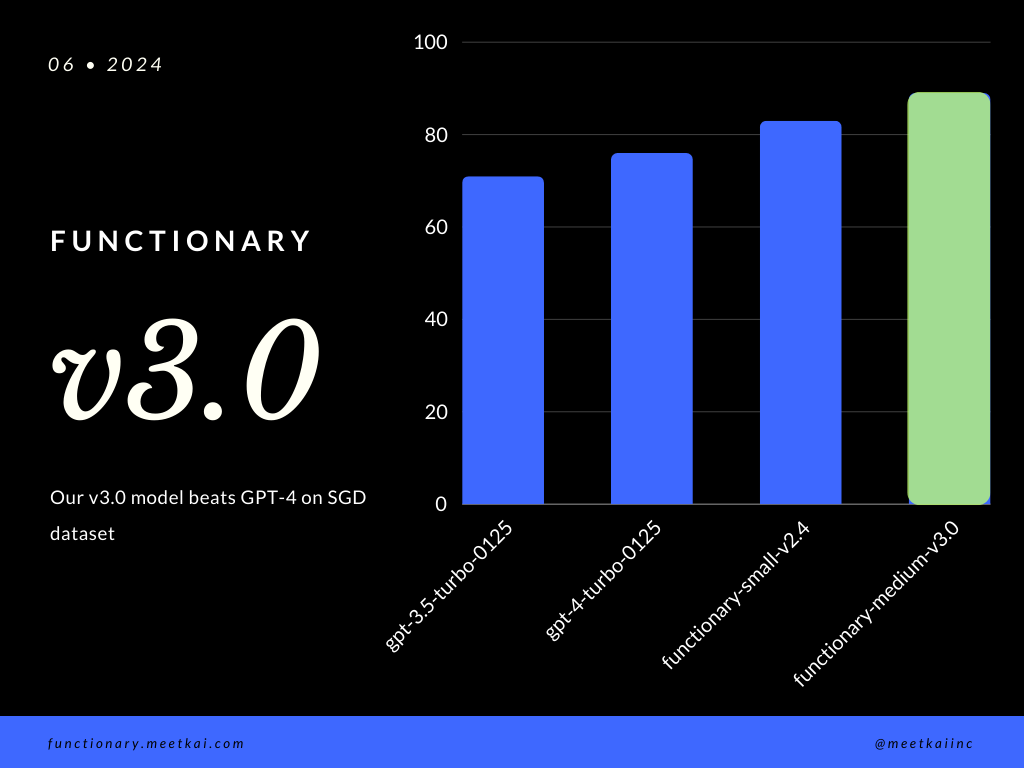
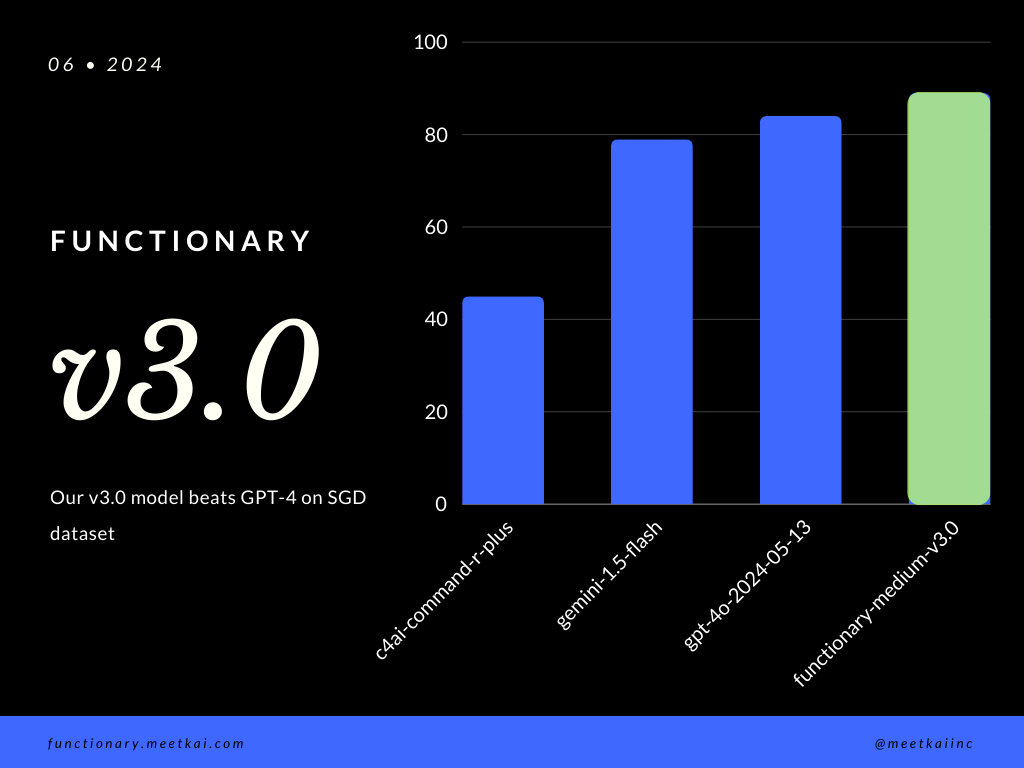
update image and result table

diff --git a/README.md b/README.md
@@ -599,10 +599,9 @@ Evaluation function call prediction in SGD dataset. The accuracy metric measures
 | Dataset       | Model Name          | Function Calling  Accuracy (Name & Arguments) |
 | :-------------| :-------------------| ---------------------------: | 
 | SGD | MeetKai-functionary-medium-v3.0  |                       **89.6%**|
-| SGD | MeetKai-functionary-small-v2.4  |                       83%|
-| SGD | MeetKai-functionary-medium-v2.4  |                       88.1%|
-| SGD | OpenAI-gpt-3.5-turbo-0125  |                        71.6% |
-| SGD | OpenAI-gpt-4-turbo-0125  |                        76.2% |
+| SGD | gpt-4o-2024-05-13  |                       82.54%|
+| SGD | gemini-1.5-flash  |                       79.64%|
+| SGD | c4ai-command-r-plus  |                        45.66% |
 
 </details>
 
